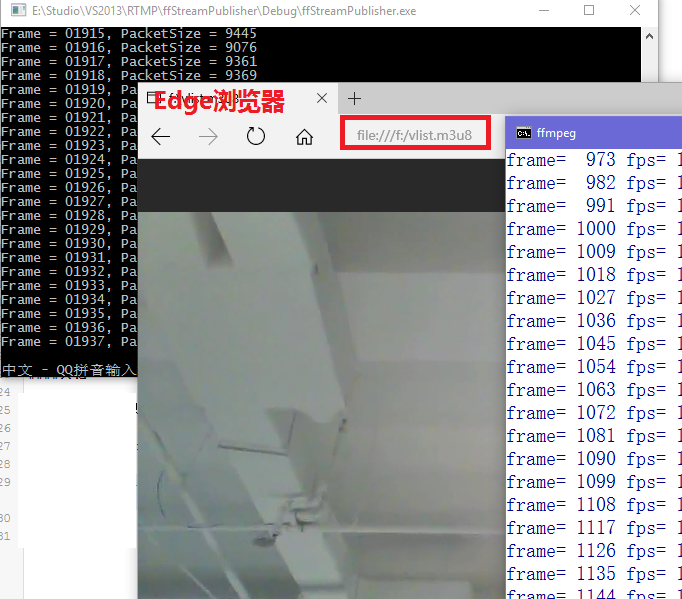
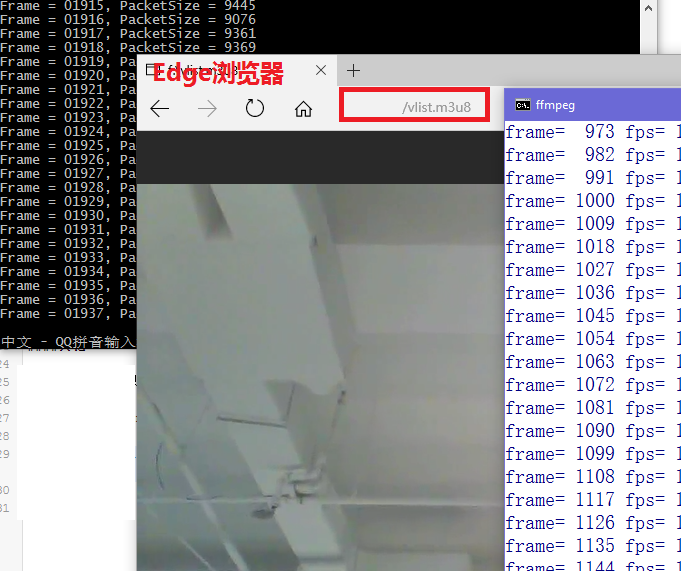
update README

diff --git a/ffStreamPublisher/README.md b/ffStreamPublisher/README.md
@@ -1,33 +1,40 @@
-# ffStreamPublisher
-StreamPublisher/VideoGrabber based on FFmpeg on Windows
+# Stream Publisher
+VideoGrab/ScreenCapture & Streaming based on FFmpeg on Windows
 
 ------
 
-####输入方式
+## 输入方式 ##
 
 1.摄像头
 2.屏幕(录屏)
-3.其他（如视频文件输入，暂不关注此话题）
+3.*其他（如视频文件输入，未实现）*
 
-####输出方式
 
-1.推流(RTMP)
+
+## 输出方式 ##
+
+1.推流(RTMP) **需要事先启动NGINX程序**, 另请参阅 [nginx@github](https://github.com/arut/nginx-rtmp-module)
+
 2.保存为视频文件
 
-####使用方式
+
+
+## 使用示例 ##
 
     ffStreamPublisher
     ffStreamPublisher rtmp://127.0.0.1/live/stream
     ffStreamPublisher saved_video.mp4
 
-####其他
+
+
+## 播放视频流 ##
 
 1.播放RTMP流，以PotPlayer为例，直接打开rtmp链接即可
 
 2.切割为ts并生成m3u8进行播放，如下
 
-    ffmpeg -hide_banner -i rtmp://127.0.0.1/live/stream -c:v libx264 -f segment -segment_list F:\\vlist.m3u8 -segment_time 10 F:\\slice%%d.ts
+    ffmpeg -hide_banner -i rtmp://127.0.0.1/live/stream -c:v libx264 -f segment -segment_list C:\\fakepath\\vlist.m3u8 -segment_time 10 C:\\fakepath\\slice%d.ts
 
-然后在Edge等浏览器地址栏中输入file:///f:/vlist.m3u8即可播放，如下图
+然后在Edge等浏览器地址栏中输入file:///C:/fakepath/vlist.m3u8即可播放，如下图
 
 ![play_ts](docs/imgs/ff01.png)

diff --git a/ffikAVCapture/README.md b/ffikAVCapture/README.md
@@ -3,15 +3,17 @@ AudioVidoCapture based on FFmpeg (GDI Grab) & irrKlang
 
 ### How to use
 
-    //BEGIN
-    FFIKRecorder recorder;
-    //recorder.SetVideoRecordOptions(); // if not set, defaults will be used
-    recorder.StartRecordingVideo(); // start capturing video
-    //recorder.StartRecordingAudio(); // start recording audio
-    int n = 0;
-    while (true)
-    {
-      if (kbhit()) break;
-      recorder.GrabVideoFrame();
-    }
-    //END
+```c#
+//BEGIN
+FFIKRecorder recorder;
+//recorder.SetVideoRecordOptions(); // if not set, defaults will be used
+recorder.StartRecordingVideo(); // start capturing video
+//recorder.StartRecordingAudio(); // start recording audio
+int n = 0;
+while (true)
+{
+  if (kbhit()) break;
+  recorder.GrabVideoFrame();
+}
+//END
+```

diff --git a/README.md b/README.md
@@ -4,9 +4,8 @@ A tour of audio/video/streaming (FFmpeg, RTMP, etc), examples and demos.
 
 
 
-> NOTE:
+> NOTE: Dependencies should be in the .dep folder (*.props and more)
 >
-> Dependencies are in the .dep folder (*.props and more)
 
 
 
@@ -16,17 +15,14 @@ A tour of audio/video/streaming (FFmpeg, RTMP, etc), examples and demos.
 
 
 
-**ffikAVCapture**
+[**ffikAVCapture**](./ffikAVCapture)
 
+video recording: ffmpeg
 
-
-video: ffmpeg
-
-audio: irrKlang
+audio recording: irrKlang
 
 
 
 ## Video Streaming ##
 
-**ffStreamPublisher**  --> *NGINX* (*background running*)--> **rtmpStreamReceiver**
-
+[**ffStreamPublisher**](./ffStreamPublisher) --> *NGINX* (with rtmp moudle)--> [**rtmpStreamReceiver**](./rtmpStreamReceiver)
